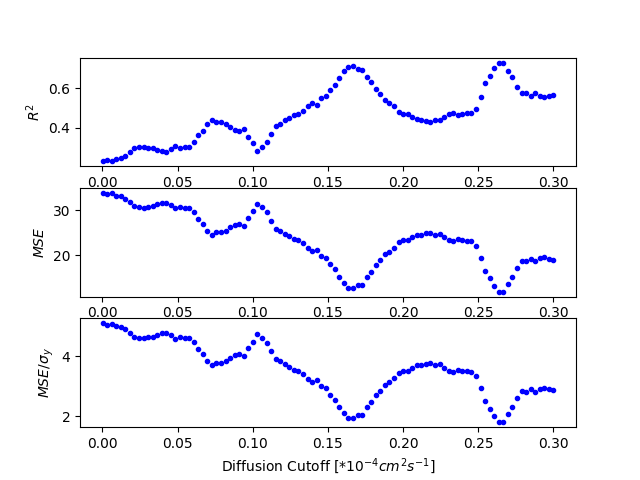
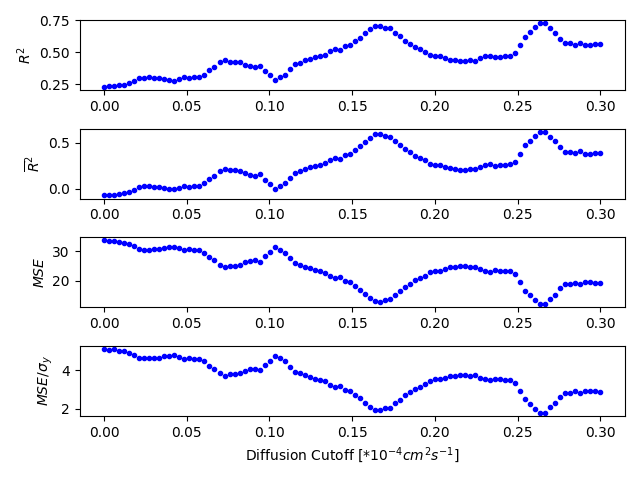
Added r2bar scoring metric for all ml

diff --git a/ml/cut_performance/scripts/diffusion_vs_viscosity.py b/ml/cut_performance/scripts/diffusion_vs_viscosity.py
@@ -77,28 +77,32 @@ for diff_cut in diff_cuts:
                  'diff_cut_scores': diff_pred
                  })
 
-fig_diff, ax_diff = pl.subplots(3)
+fig_diff, ax_diff = pl.subplots(4)
 for i in data:
 
     diff_cut = i['diff_cut']
     diff_pred = i['diff_cut_scores']
 
-    y_pred_diff, r2_diff, mse_diff, mseoversigmay_diff = diff_pred
+    y_pred_diff, r2_diff, r2bar_diff, mse_diff, mseoversigmay_diff = diff_pred
 
     ax_diff[0].plot(diff_cut, r2_diff, marker='.', linestyle='none', color='b')
-    ax_diff[1].plot(diff_cut, mse_diff, marker='.', linestyle='none', color='b')
-    ax_diff[2].plot(diff_cut, mseoversigmay_diff, marker='.', linestyle='none', color='b')
+    ax_diff[1].plot(diff_cut, r2bar_diff, marker='.', linestyle='none', color='b')
+    ax_diff[2].plot(diff_cut, mse_diff, marker='.', linestyle='none', color='b')
+    ax_diff[3].plot(diff_cut, mseoversigmay_diff, marker='.', linestyle='none', color='b')
 
     ax_diff[0].set_ylabel(r'$R^{2}$')
-    ax_diff[1].set_ylabel(r'$MSE$')
-    ax_diff[2].set_ylabel(r'$MSE/\sigma_{y}$')
+    ax_diff[1].set_ylabel(r'$\overline{R}^{2}$')
+    ax_diff[2].set_ylabel(r'$MSE$')
+    ax_diff[3].set_ylabel(r'$MSE/\sigma_{y}$')
 
     ax_diff[0].grid()
     ax_diff[1].grid()
     ax_diff[2].grid()
+    ax_diff[3].grid()
 
     ax_diff[-1].set_xlabel(r'Diffusion Cutoff $[*10^{-4} cm^{2} s^{-1}]$')
 
+fig_diff.tight_layout()
 fig_diff.savefig('../plots/diff_cut')
 
 # Same code except for viscosity
@@ -150,26 +154,30 @@ for visc_cut in visc_cuts:
                  })
 
 
-fig_diff, ax_diff = pl.subplots(3)
+fig_diff, ax_diff = pl.subplots(4)
 for i in data:
 
     diff_cut = i['visc_cut']
     diff_pred = i['visc_cut_scores']
 
-    y_pred_diff, r2_diff, mse_diff, mseoversigmay_diff = diff_pred
+    y_pred_diff, r2_diff, r2bar_diff, mse_diff, mseoversigmay_diff = diff_pred
 
     ax_diff[0].plot(diff_cut, r2_diff, marker='.', linestyle='none', color='b')
-    ax_diff[1].plot(diff_cut, mse_diff, marker='.', linestyle='none', color='b')
-    ax_diff[2].plot(diff_cut, mseoversigmay_diff, marker='.', linestyle='none', color='b')
+    ax_diff[1].plot(diff_cut, r2bar_diff, marker='.', linestyle='none', color='b')
+    ax_diff[2].plot(diff_cut, mse_diff, marker='.', linestyle='none', color='b')
+    ax_diff[3].plot(diff_cut, mseoversigmay_diff, marker='.', linestyle='none', color='b')
 
     ax_diff[0].set_ylabel(r'$R^{2}$')
-    ax_diff[1].set_ylabel(r'$MSE$')
-    ax_diff[2].set_ylabel(r'$MSE/\sigma_{y}$')
+    ax_diff[1].set_ylabel(r'$\overline{R}^{2}$')
+    ax_diff[2].set_ylabel(r'$MSE$')
+    ax_diff[3].set_ylabel(r'$MSE/\sigma_{y}$')
 
     ax_diff[0].grid()
     ax_diff[1].grid()
     ax_diff[2].grid()
+    ax_diff[3].grid()
 
     ax_diff[-1].set_xlabel(r'Viscosity Cutoff $[Pa \cdot s]$')
 
+fig_diff.tight_layout()
 fig_diff.savefig('../plots/visc_cut')

diff --git a/ml/cut_performance_Nb2Ni3_removed/scripts/diffusion_vs_viscosity.py b/ml/cut_performance_Nb2Ni3_removed/scripts/diffusion_vs_viscosity.py
@@ -79,28 +79,32 @@ for diff_cut in diff_cuts:
                  'diff_cut_scores': diff_pred
                  })
 
-fig_diff, ax_diff = pl.subplots(3)
+fig_diff, ax_diff = pl.subplots(4)
 for i in data:
 
     diff_cut = i['diff_cut']
     diff_pred = i['diff_cut_scores']
 
-    y_pred_diff, r2_diff, mse_diff, mseoversigmay_diff = diff_pred
+    y_pred_diff, r2_diff, r2bar_diff, mse_diff, mseoversigmay_diff = diff_pred
 
     ax_diff[0].plot(diff_cut, r2_diff, marker='.', linestyle='none', color='b')
-    ax_diff[1].plot(diff_cut, mse_diff, marker='.', linestyle='none', color='b')
-    ax_diff[2].plot(diff_cut, mseoversigmay_diff, marker='.', linestyle='none', color='b')
+    ax_diff[1].plot(diff_cut, r2bar_diff, marker='.', linestyle='none', color='b')
+    ax_diff[2].plot(diff_cut, mse_diff, marker='.', linestyle='none', color='b')
+    ax_diff[3].plot(diff_cut, mseoversigmay_diff, marker='.', linestyle='none', color='b')
 
     ax_diff[0].set_ylabel(r'$R^{2}$')
-    ax_diff[1].set_ylabel(r'$MSE$')
-    ax_diff[2].set_ylabel(r'$MSE/\sigma_{y}$')
+    ax_diff[1].set_ylabel(r'$\overline{R}^{2}$')
+    ax_diff[2].set_ylabel(r'$MSE$')
+    ax_diff[3].set_ylabel(r'$MSE/\sigma_{y}$')
 
     ax_diff[0].grid()
     ax_diff[1].grid()
     ax_diff[2].grid()
+    ax_diff[3].grid()
 
     ax_diff[-1].set_xlabel(r'Diffusion Cutoff $[*10^{-4} cm^{2} s^{-1}]$')
 
+fig_diff.tight_layout()
 fig_diff.savefig('../plots/diff_cut')
 
 # Same code except for viscosity
@@ -152,26 +156,30 @@ for visc_cut in visc_cuts:
                  })
 
 
-fig_diff, ax_diff = pl.subplots(3)
+fig_diff, ax_diff = pl.subplots(4)
 for i in data:
 
     diff_cut = i['visc_cut']
     diff_pred = i['visc_cut_scores']
 
-    y_pred_diff, r2_diff, mse_diff, mseoversigmay_diff = diff_pred
+    y_pred_diff, r2_diff, r2bar_diff, mse_diff, mseoversigmay_diff = diff_pred
 
     ax_diff[0].plot(diff_cut, r2_diff, marker='.', linestyle='none', color='b')
-    ax_diff[1].plot(diff_cut, mse_diff, marker='.', linestyle='none', color='b')
-    ax_diff[2].plot(diff_cut, mseoversigmay_diff, marker='.', linestyle='none', color='b')
+    ax_diff[1].plot(diff_cut, r2bar_diff, marker='.', linestyle='none', color='b')
+    ax_diff[2].plot(diff_cut, mse_diff, marker='.', linestyle='none', color='b')
+    ax_diff[3].plot(diff_cut, mseoversigmay_diff, marker='.', linestyle='none', color='b')
 
     ax_diff[0].set_ylabel(r'$R^{2}$')
-    ax_diff[1].set_ylabel(r'$MSE$')
-    ax_diff[2].set_ylabel(r'$MSE/\sigma_{y}$')
+    ax_diff[1].set_ylabel(r'$\overline{R}^{2}$')
+    ax_diff[2].set_ylabel(r'$MSE$')
+    ax_diff[3].set_ylabel(r'$MSE/\sigma_{y}$')
 
     ax_diff[0].grid()
     ax_diff[1].grid()
     ax_diff[2].grid()
+    ax_diff[3].grid()
 
     ax_diff[-1].set_xlabel(r'Viscosity Cutoff $[Pa \cdot s]$')
 
+fig_diff.tight_layout()
 fig_diff.savefig('../plots/visc_cut')

diff --git a/ml/trg_Nb2Ni3_removed/scripts/fit_trg.py b/ml/trg_Nb2Ni3_removed/scripts/fit_trg.py
@@ -9,14 +9,17 @@ import numpy as np
 import pickle
 
 
-def score(label, r2, mse, mseoversigmay, digits):
+def score(label, r2, r2bar, mse, mseoversigmay, digits):
 
     r2 = str(round(r2, digits))
+    r2bar = str(round(r2bar, digits))
     mse = str(round(mse, digits))
     mseoversigmay = str(round(mseoversigmay, digits))
 
     label += '\n'
     label += r'$R^{2}=$'+r2
+    label += '\n'
+    label += r'$\overline{R}^{2}=$'+r2bar
     label += '\n'
     label += r'MSE='+mse
     label += '\n'
@@ -27,12 +30,14 @@ def score(label, r2, mse, mseoversigmay, digits):
 
 def ml(reg, X_train, y_train):
 
+    samples = len(y_train)
     y_pred = reg.predict(X_train)  # Predictions
     r2 = metrics.r2_score(y_train, y_pred)  # R^2
+    r2bar = 1-(1-r2)*(samples-1)/(samples-len(reg.coef_)-1)
     mse = metrics.mean_squared_error(y_train, y_pred)  # MSE
     mseoversigmay = mse/np.std(y_train)  # MSE/sigmay
 
-    return y_pred, r2, mse, mseoversigmay
+    return y_pred, r2, r2bar, mse, mseoversigmay
 
 
 # Data path
@@ -57,11 +62,11 @@ intercpet = reg.intercept_  # Intercept
 
 # Predictions
 pred = ml(reg, X_train, y_train)
-y_pred, r2, mse, mseoversigmay = pred
+y_pred, r2, r2bar, mse, mseoversigmay = pred
 
 # Save performance scores
-score_type = ['r2', 'mse', 'mseoversigmay']
-score_value = [r2, mse, mseoversigmay]
+score_type = ['r2','r2bar', 'mse', 'mseoversigmay']
+score_value = [r2, r2bar, mse, mseoversigmay]
 df_score = pd.DataFrame({
                          'metric': score_type,
                          'score': score_value
@@ -78,7 +83,7 @@ fig, ax = pl.subplots()
 sigs = 3
 label = 'MD Fit: '
 label += r'log($dmax^2$)='
-label += str(round(coeffs[0], sigs))+r'$T_{rg}$'
+label += '('+str(round(coeffs[0], sigs))+r'$)T_{rg}$'
 label += '+('+str(round(intercpet, sigs))+')'
 
 ax.set_title(label)
@@ -89,20 +94,20 @@ ax.plot(
         marker='*',
         linestyle='none',
         color='b',
-        label=score(r'$T_{g}$ MD', r2, mse, mseoversigmay, sigs)
+        label=score(r'$T_{g}$ MD', r2, r2bar, mse, mseoversigmay, sigs)
         )
 
 ax.legend(loc='best')
 ax.grid()
 
-ax.set_xlabel(r'Predicted $log(dmax^2)$ $[log(mm)]$')
-ax.set_ylabel(r'Actual $log(dmax^2)$ $[log(mm)]$')
+ax.set_xlabel(r'Predicted $log(dmax^2)$ $[log(mm^{2})]$')
+ax.set_ylabel(r'Actual $log(dmax^2)$ $[log(mm^{2})]$')
 
 if ax.get_ylim()[1] > ax.get_xlim()[1]:
     max_lim = ax.get_ylim()[1]
 else:
     max_lim = ax.get_xlim()[1]
-
+    
 if ax.get_ylim()[0] < ax.get_xlim()[0]:
     min_lim = ax.get_ylim()[0]
 else:

diff --git a/ml/trg/scripts/fit_trg.py b/ml/trg/scripts/fit_trg.py
@@ -9,14 +9,17 @@ import numpy as np
 import pickle
 
 
-def score(label, r2, mse, mseoversigmay, digits):
+def score(label, r2, r2bar, mse, mseoversigmay, digits):
 
     r2 = str(round(r2, digits))
+    r2bar = str(round(r2bar, digits))
     mse = str(round(mse, digits))
     mseoversigmay = str(round(mseoversigmay, digits))
 
     label += '\n'
     label += r'$R^{2}=$'+r2
+    label += '\n'
+    label += r'$\overline{R}^{2}=$'+r2bar
     label += '\n'
     label += r'MSE='+mse
     label += '\n'
@@ -27,12 +30,14 @@ def score(label, r2, mse, mseoversigmay, digits):
 
 def ml(reg, X_train, y_train):
 
+    samples = len(y_train)
     y_pred = reg.predict(X_train)  # Predictions
     r2 = metrics.r2_score(y_train, y_pred)  # R^2
+    r2bar = 1-(1-r2)*(samples-1)/(samples-len(reg.coef_)-1)
     mse = metrics.mean_squared_error(y_train, y_pred)  # MSE
     mseoversigmay = mse/np.std(y_train)  # MSE/sigmay
 
-    return y_pred, r2, mse, mseoversigmay
+    return y_pred, r2, r2bar, mse, mseoversigmay
 
 
 # Data path
@@ -56,11 +61,11 @@ intercpet = reg.intercept_  # Intercept
 
 # Predictions
 pred = ml(reg, X_train, y_train)
-y_pred, r2, mse, mseoversigmay = pred
+y_pred, r2, r2bar, mse, mseoversigmay = pred
 
 # Save performance scores
-score_type = ['r2', 'mse', 'mseoversigmay']
-score_value = [r2, mse, mseoversigmay]
+score_type = ['r2','r2bar', 'mse', 'mseoversigmay']
+score_value = [r2, r2bar, mse, mseoversigmay]
 df_score = pd.DataFrame({
                          'metric': score_type,
                          'score': score_value
@@ -77,7 +82,7 @@ fig, ax = pl.subplots()
 sigs = 3
 label = 'MD Fit: '
 label += r'log($dmax^2$)='
-label += str(round(coeffs[0], sigs))+r'$T_{rg}$'
+label += '('+str(round(coeffs[0], sigs))+r'$)T_{rg}$'
 label += '+('+str(round(intercpet, sigs))+')'
 
 ax.set_title(label)
@@ -88,14 +93,14 @@ ax.plot(
         marker='*',
         linestyle='none',
         color='b',
-        label=score(r'$T_{g}$ MD', r2, mse, mseoversigmay, sigs)
+        label=score(r'$T_{g}$ MD', r2, r2bar, mse, mseoversigmay, sigs)
         )
 
 ax.legend(loc='best')
 ax.grid()
 
-ax.set_xlabel(r'Predicted $log(dmax^2)$ $[log(mm)]$')
-ax.set_ylabel(r'Actual $log(dmax^2)$ $[log(mm)]$')
+ax.set_xlabel(r'Predicted $log(dmax^2)$ $[log(mm^{2})]$')
+ax.set_ylabel(r'Actual $log(dmax^2)$ $[log(mm^{2})]$')
 
 if ax.get_ylim()[1] > ax.get_xlim()[1]:
     max_lim = ax.get_ylim()[1]

diff --git a/ml/cut_performance/scripts/functions.py b/ml/cut_performance/scripts/functions.py
@@ -5,14 +5,17 @@ from scipy import interpolate
 import numpy as np
 
 
-def score(label, r2, mse, mseoversigmay, digits):
+def score(label, r2, r2bar, mse, mseoversigmay, digits):
 
     r2 = str(round(r2, digits))
+    r2bar = str(round(r2bar, digits))
     mse = str(round(mse, digits))
     mseoversigmay = str(round(mseoversigmay, digits))
 
     label += '\n'
     label += r'$R^{2}=$'+r2
+    label += '\n'
+    label += r'$\overline{R}^{2}=$'+r2bar
     label += '\n'
     label += r'MSE='+mse
     label += '\n'
@@ -23,12 +26,14 @@ def score(label, r2, mse, mseoversigmay, digits):
 
 def ml(reg, X_train, y_train):
 
+    samples = len(y_train)
     y_pred = reg.predict(X_train)  # Predictions
     r2 = metrics.r2_score(y_train, y_pred)  # R^2
+    r2bar = 1-(1-r2)*(samples-1)/(samples-len(reg.coef_)-1)
     mse = metrics.mean_squared_error(y_train, y_pred)  # MSE
     mseoversigmay = mse/np.std(y_train)  # MSE/sigmay
 
-    return y_pred, r2, mse, mseoversigmay
+    return y_pred, r2, r2bar, mse, mseoversigmay
 
 
 def comp_fracs(x):

diff --git a/ml/cut_performance_Nb2Ni3_removed/scripts/functions.py b/ml/cut_performance_Nb2Ni3_removed/scripts/functions.py
@@ -5,14 +5,17 @@ from scipy import interpolate
 import numpy as np
 
 
-def score(label, r2, mse, mseoversigmay, digits):
+def score(label, r2, r2bar, mse, mseoversigmay, digits):
 
     r2 = str(round(r2, digits))
+    r2bar = str(round(r2bar, digits))
     mse = str(round(mse, digits))
     mseoversigmay = str(round(mseoversigmay, digits))
 
     label += '\n'
     label += r'$R^{2}=$'+r2
+    label += '\n'
+    label += r'$\overline{R}^{2}=$'+r2bar
     label += '\n'
     label += r'MSE='+mse
     label += '\n'
@@ -23,12 +26,14 @@ def score(label, r2, mse, mseoversigmay, digits):
 
 def ml(reg, X_train, y_train):
 
+    samples = len(y_train)
     y_pred = reg.predict(X_train)  # Predictions
     r2 = metrics.r2_score(y_train, y_pred)  # R^2
+    r2bar = 1-(1-r2)*(samples-1)/(samples-len(reg.coef_)-1)
     mse = metrics.mean_squared_error(y_train, y_pred)  # MSE
     mseoversigmay = mse/np.std(y_train)  # MSE/sigmay
 
-    return y_pred, r2, mse, mseoversigmay
+    return y_pred, r2, r2bar, mse, mseoversigmay
 
 
 def comp_fracs(x):
